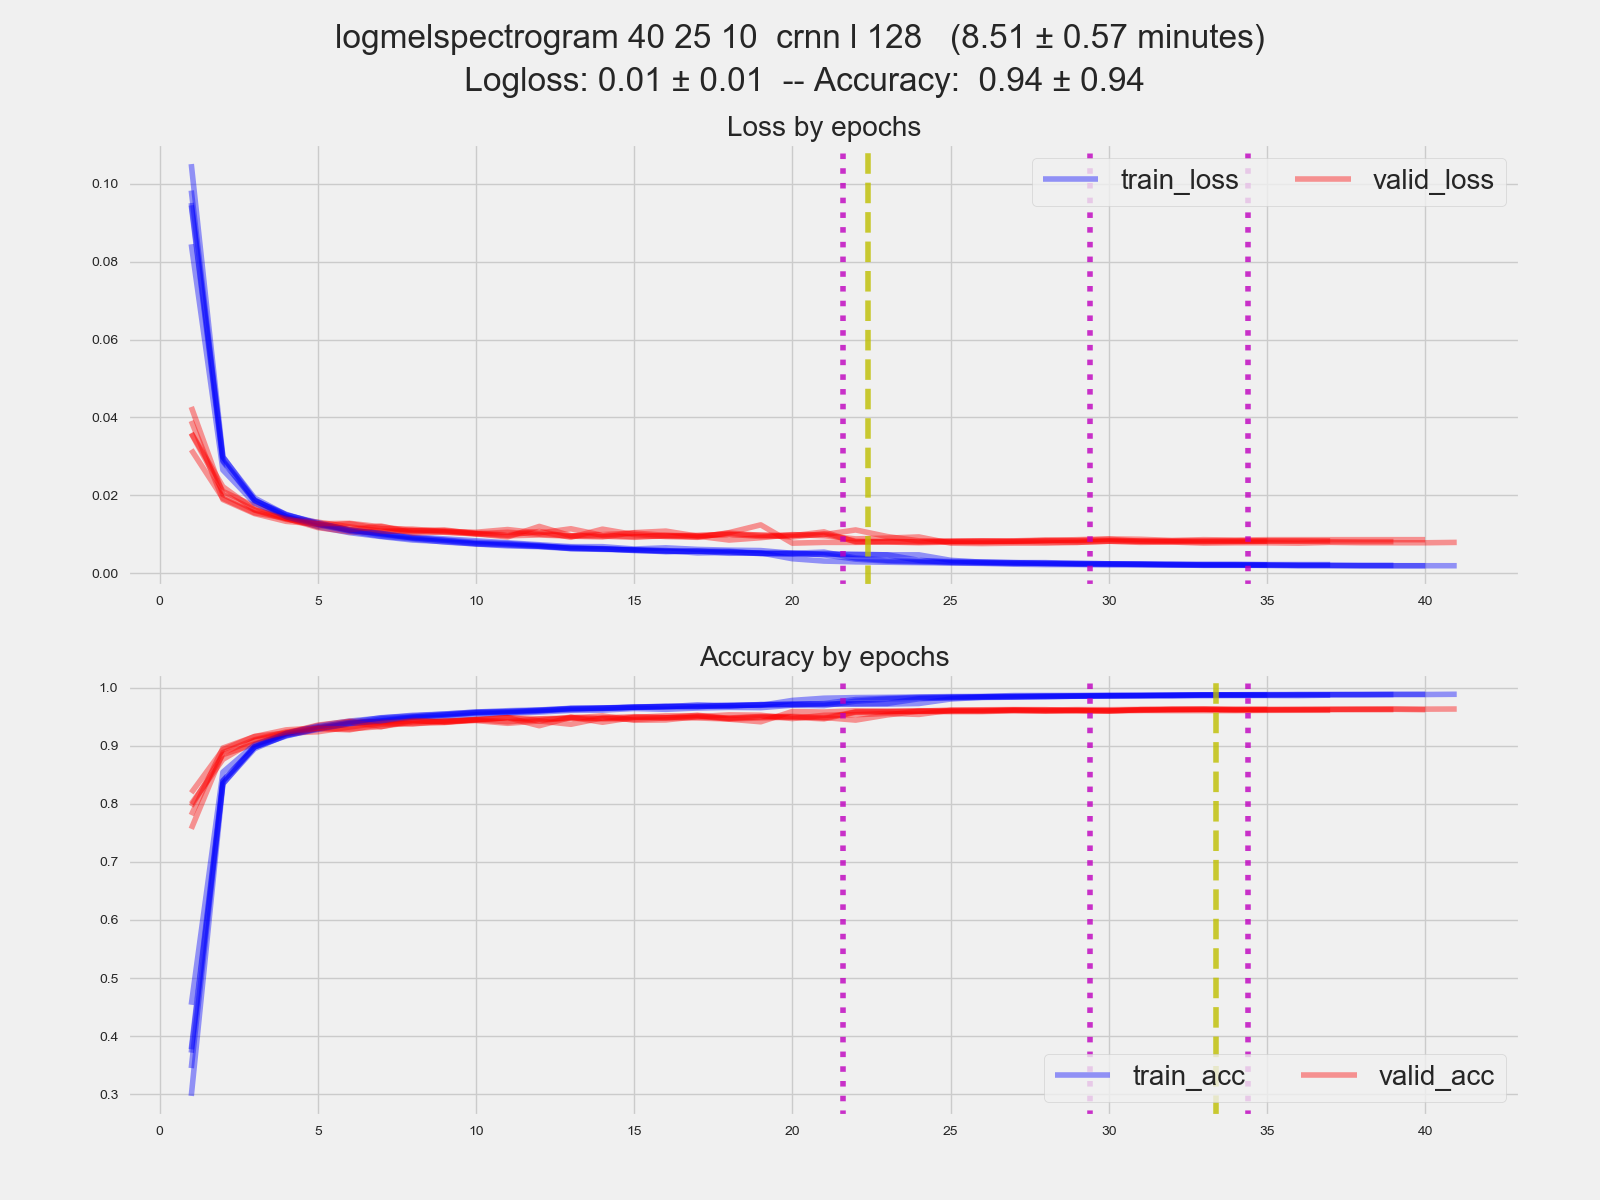
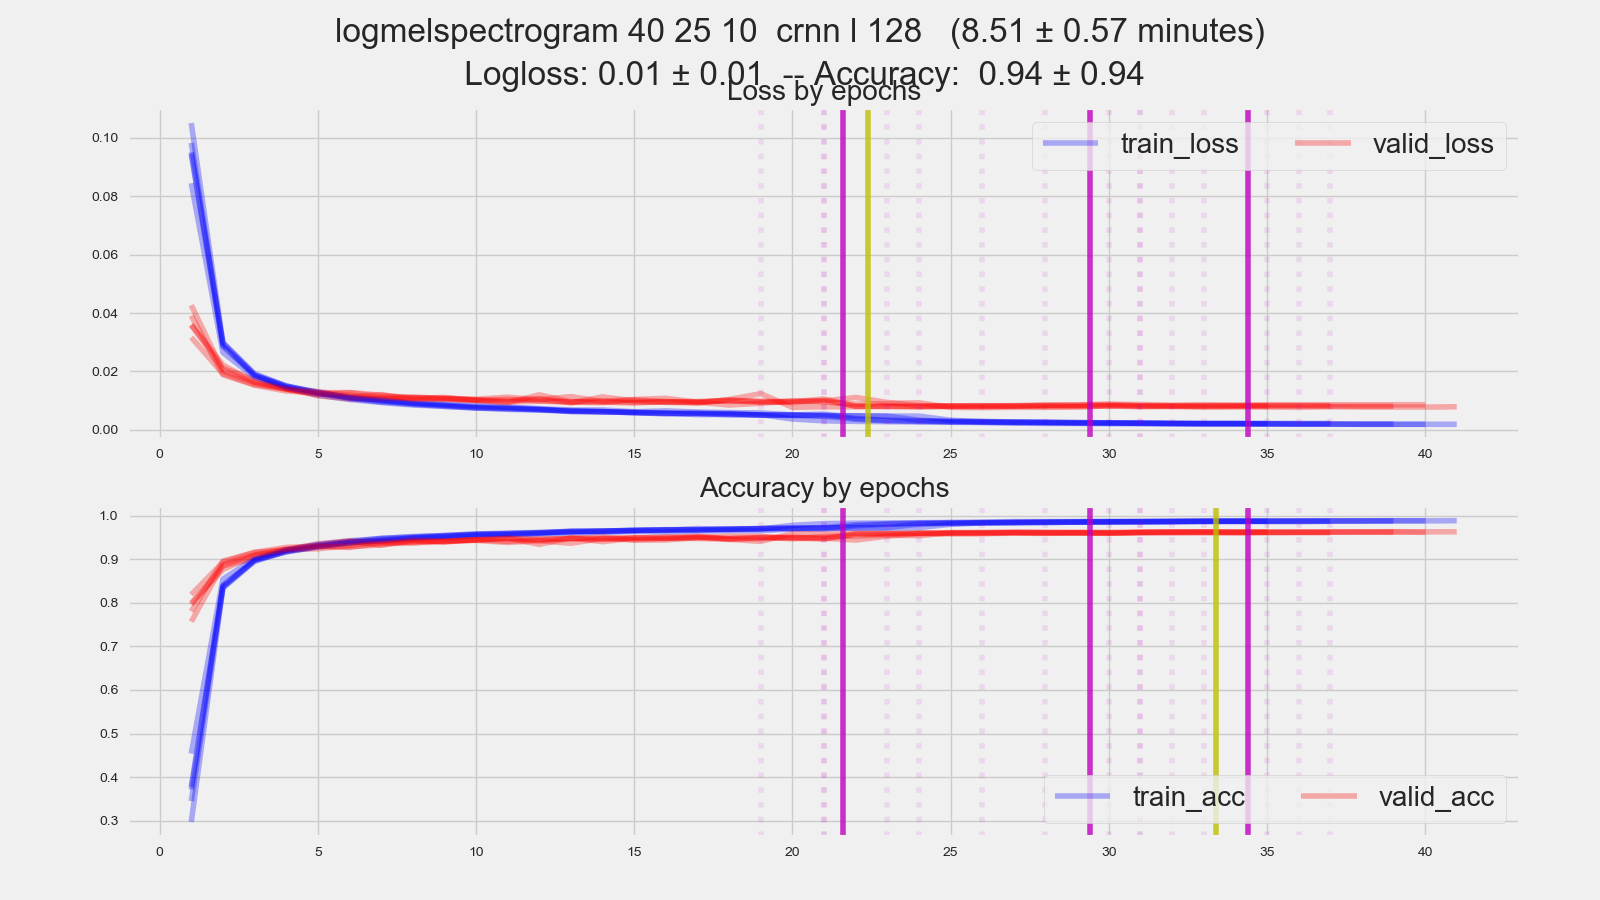
minor fix, update progress plots

diff --git a/python/gen_training_log_plots.py b/python/gen_training_log_plots.py
@@ -14,7 +14,7 @@ def plot_training_progress(model_name):
     fitting_times['fitting_time'] = fitting_times['fitting_time'].\
         map(lambda x: pd.Timedelta(x).total_seconds() / 60)
     fig = plt.figure()
-    plt.rcParams['figure.figsize'] = [16, 12]
+    plt.rcParams['figure.figsize'] = [16, 9]
     plt.rcParams['legend.fontsize'] = 20
     mean_loss, mean_acc = loss_progress.groupby('fold').agg({
         'valid_loss': lambda x: x.mean(),
@@ -44,24 +44,31 @@ def plot_training_progress(model_name):
 
     for fold_num in range(1,6):
         fold_data = loss_progress.loc[loss_progress['fold'] == fold_num]
-        ax1.plot(fold_data.epoch, fold_data.train_loss, color='b', alpha=0.4)
-        ax1.plot(fold_data.epoch, fold_data.valid_loss, color='r', alpha=0.4)
-        ax2.plot(fold_data.epoch, fold_data.train_acc, color='b', alpha=0.4)
-        ax2.plot(fold_data.epoch, fold_data.valid_acc, color='r', alpha=0.4)
+        ax1.plot(fold_data.epoch, fold_data.train_loss, color='b', alpha=0.3)
+        ax1.plot(fold_data.epoch, fold_data.valid_loss, color='r', alpha=0.3)
+        ax2.plot(fold_data.epoch, fold_data.train_acc, color='b', alpha=0.3)
+        ax2.plot(fold_data.epoch, fold_data.valid_acc, color='r', alpha=0.3)
+        for lr_decay_loc in lr_decay.loc[lr_decay.fold == fold_num].epoch:
+            ax1.axvline(x=lr_decay_loc, color='m', alpha=0.1, linestyle=':')
+            ax2.axvline(x=lr_decay_loc, color='m', alpha=0.1, linestyle=':')
         if fold_num == 1:
             ax1.legend(loc='upper right', ncol=2, frameon=True)
             ax2.legend(loc='lower right', ncol=2, frameon=True)
     for lr_decay_loc in lr_decay.groupby(['lr']).mean().epoch.values:
-        ax1.axvline(x=lr_decay_loc, color='m', alpha=0.8, linestyle=':')
-        ax2.axvline(x=lr_decay_loc, color='m', alpha=0.8, linestyle=':')
-    ax1.axvline(x=terminate_loss_loc, color='y', alpha=0.8, linestyle='--')
-    ax2.axvline(x=terminate_acc_loc, color='y', alpha=0.8, linestyle='--')
+        ax1.axvline(x=lr_decay_loc, color='m', alpha=0.8, linestyle='-')
+        ax2.axvline(x=lr_decay_loc, color='m', alpha=0.8, linestyle='-')
+
+    ax1.axvline(x=terminate_loss_loc, color='y', alpha=0.8, linestyle='-')
+    ax2.axvline(x=terminate_acc_loc, color='y', alpha=0.8, linestyle='-')
     # plt.show()
     plt.savefig('../Presentation/plot_training_progress_{}.png'.format(model_name))
     plt.close('all')
 
 files = os.listdir('../Presentation/')
 model_names = ['_'.join(filename.split('.md')[0].split()) for filename in files if filename.endswith('.md')]
+
+plt.rcParams['figure.figsize'] = [16, 9]
+plt.rcParams['legend.fontsize'] = 20
 
 for model_name in model_names:
     print(' ---- plotting model {}'.format(model_name))
